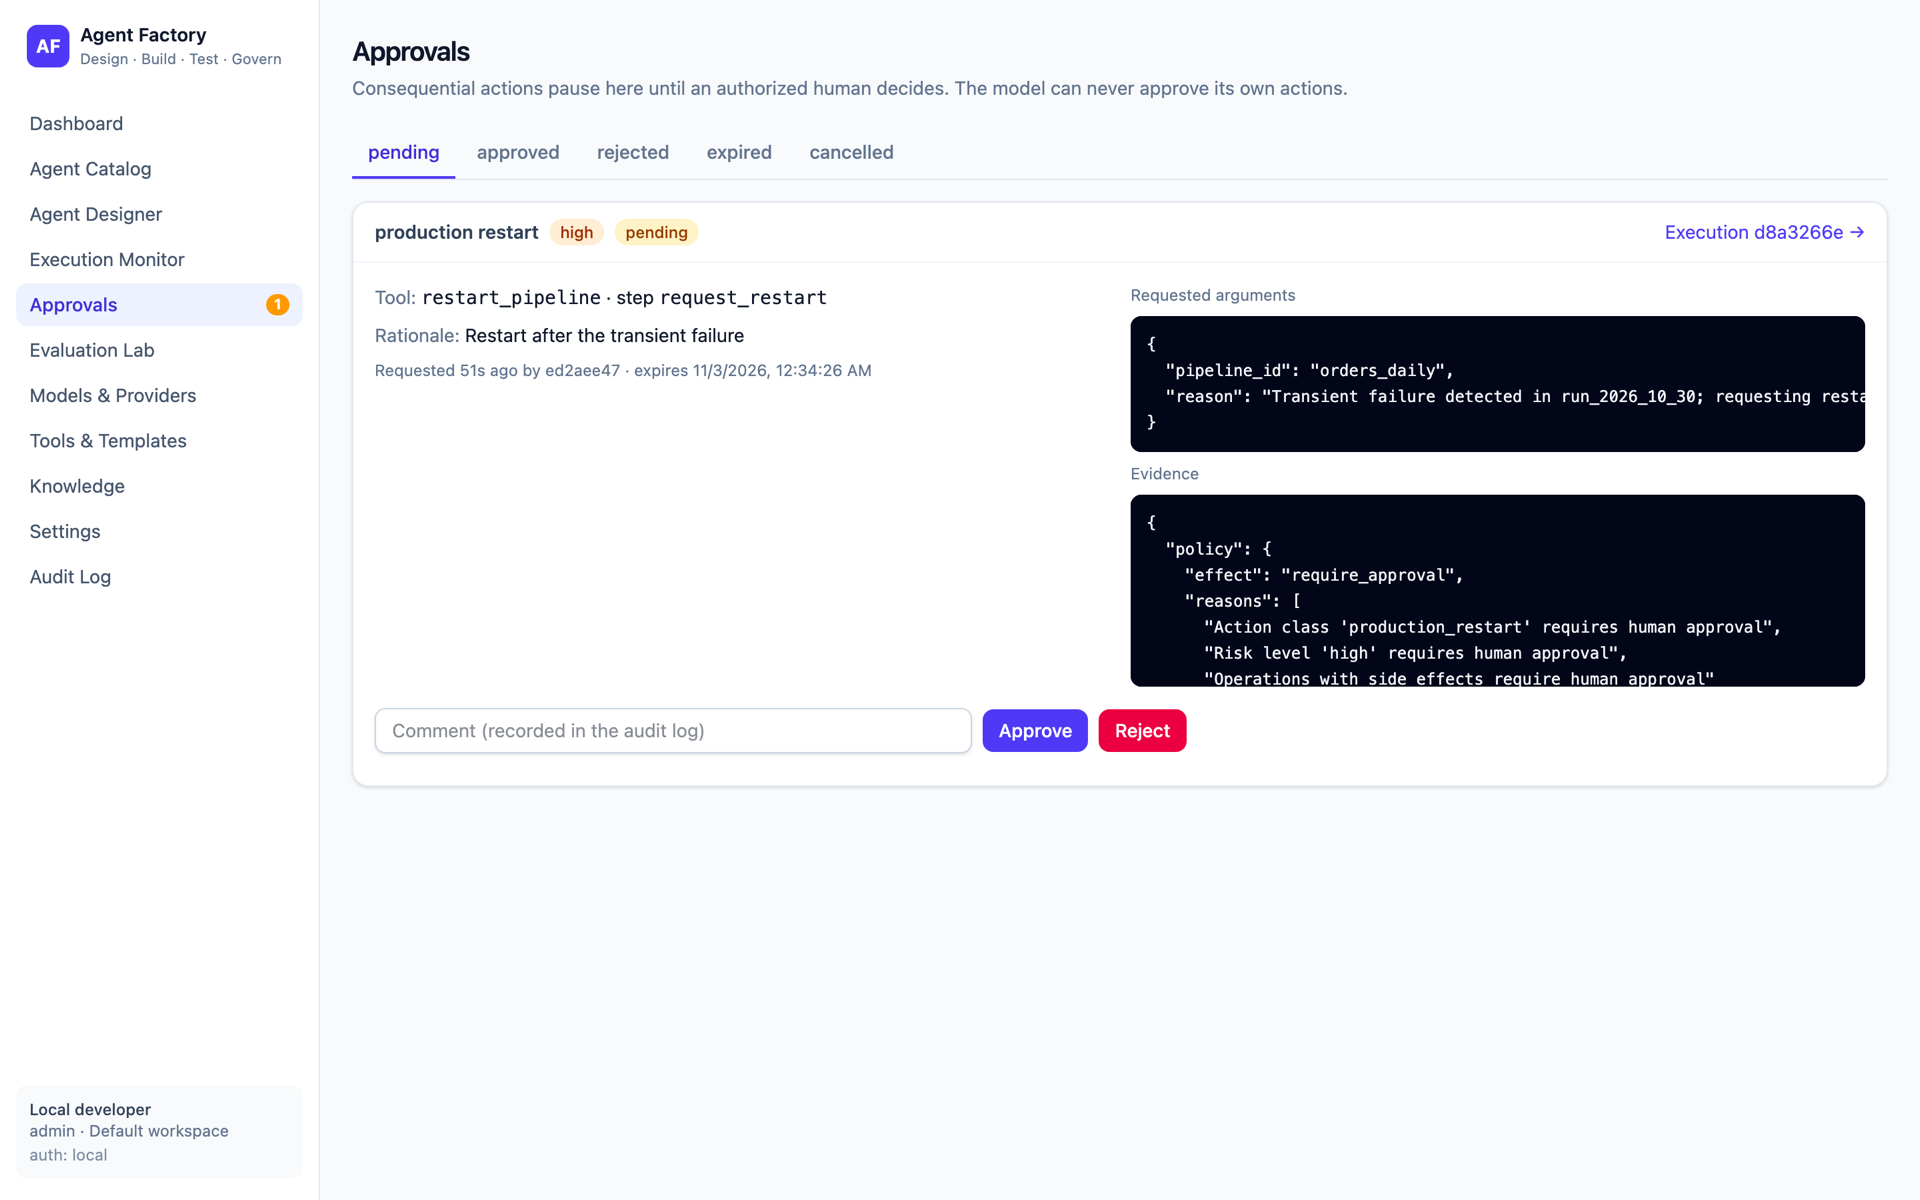
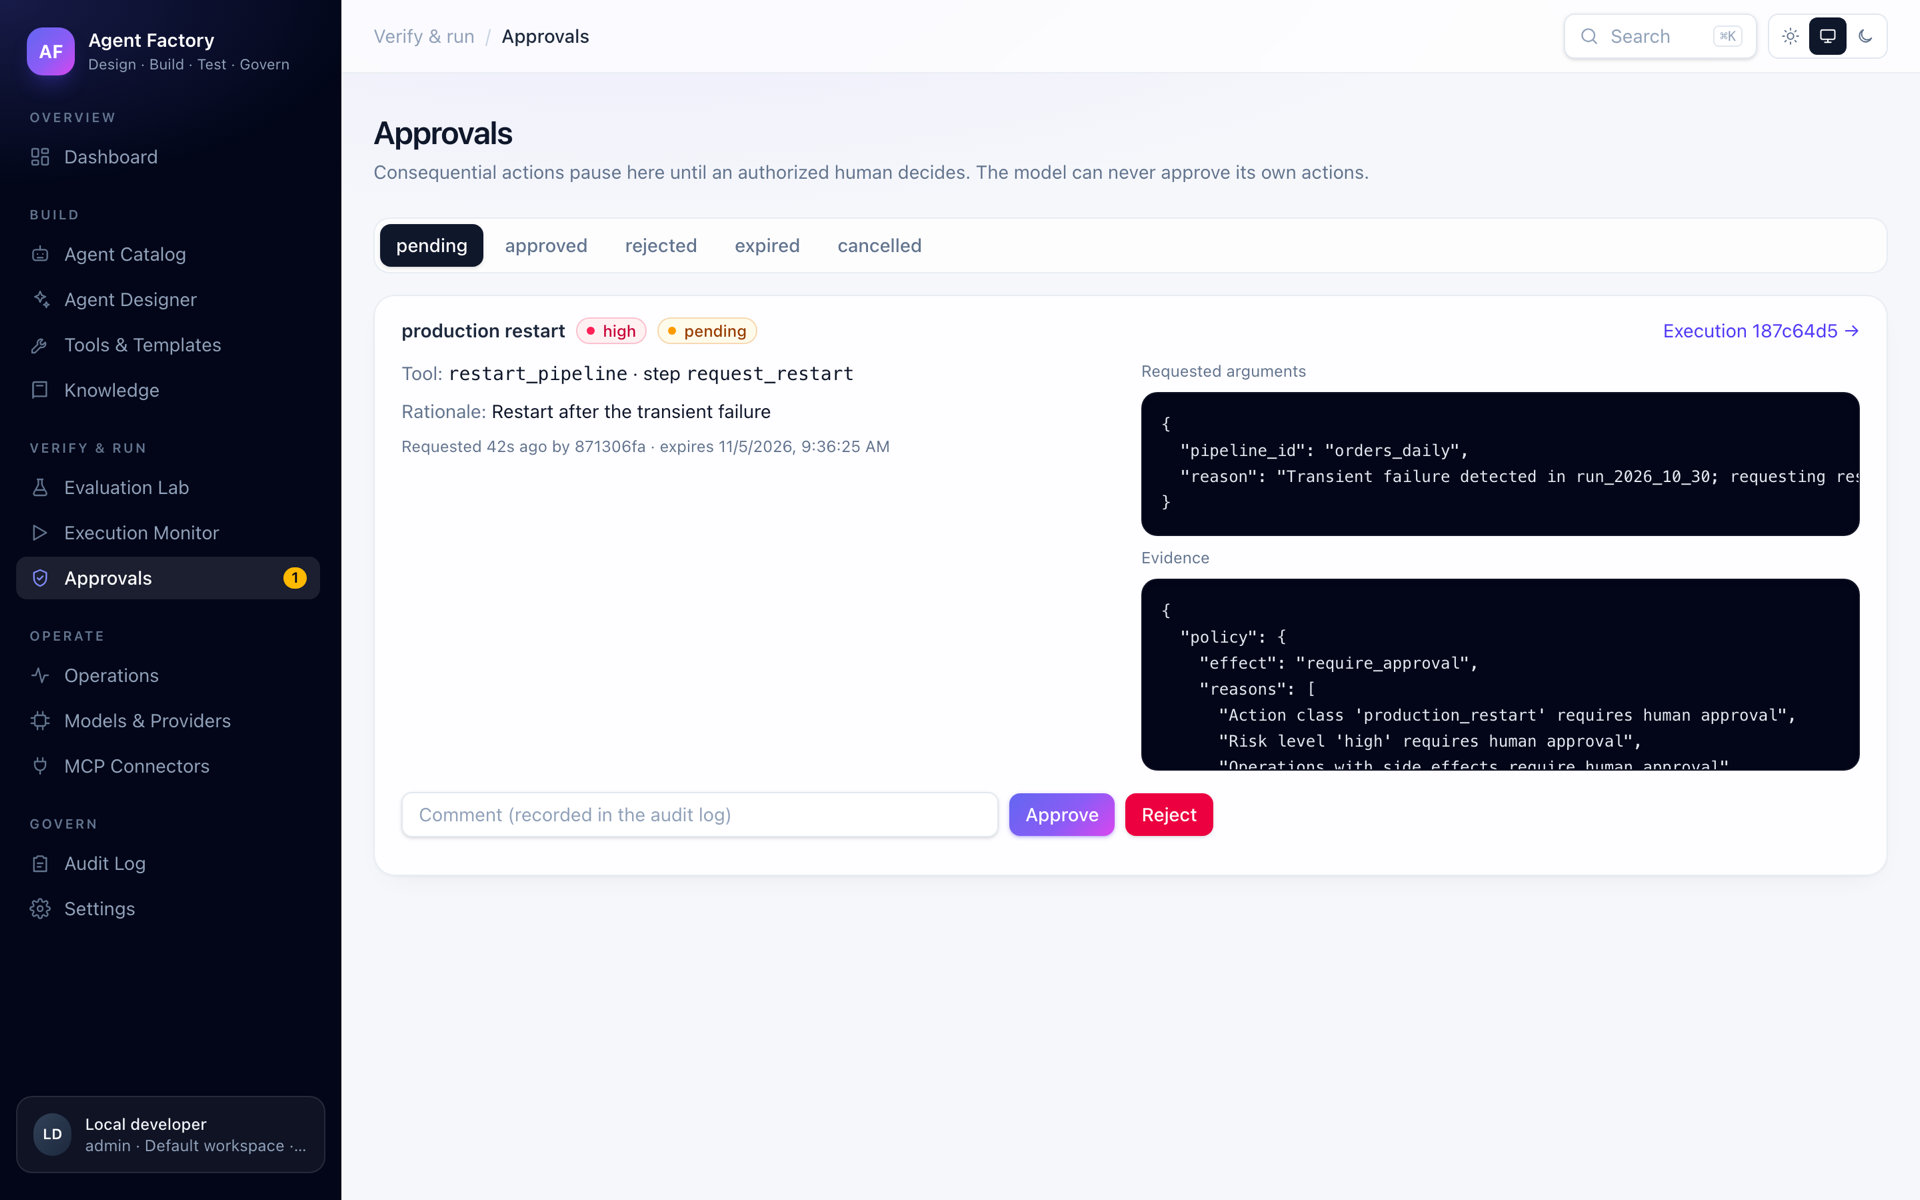
Refresh README screenshots for the redesigned UI
Dashboard, Operations (new), Releases, Execution monitor, Approvals,
Evaluation Lab and Agent Designer, captured from a demo instance with the
bundled example agents and the mock model.

diff --git a/README.md b/README.md
@@ -47,21 +47,22 @@ Most agent prototypes let a model decide what it may do. Agent Factory inverts t
 
 ## Screenshots
 
-The dashboard at `http://127.0.0.1:8787` after `agent-factory init`, using the example agents and the built-in mock model.
+A demo instance using the bundled example agents and the built-in mock model (activity spread over the last day
+for illustration).
 
-**Dashboard**: agents, recent executions, pending approvals, runtime and model health.
+**Dashboard**: lifecycle pipeline, 24-hour trends, execution activity, recent runs, runtime and model health.
 
 ![Dashboard](docs/images/screenshots/dashboard.png)
 
 <table>
   <tr>
     <td width="50%">
-      <b>Agent Designer</b>: guided 7-step editor with live validation and a workflow preview.<br/>
-      <a href="docs/images/screenshots/agent-designer.png"><img src="docs/images/screenshots/agent-designer.png" alt="Agent Designer"/></a>
+      <b>Operations</b>: success, latency, tokens and cost, execution activity, SLO alerts and per-agent health.<br/>
+      <a href="docs/images/screenshots/operations.png"><img src="docs/images/screenshots/operations.png" alt="Operations"/></a>
     </td>
     <td width="50%">
-      <b>Agent detail</b>: spec, tools, workflow, permissions, versions and evaluations for one agent.<br/>
-      <a href="docs/images/screenshots/agent-detail.png"><img src="docs/images/screenshots/agent-detail.png" alt="Agent detail"/></a>
+      <b>Releases</b>: what runs in each environment, a production canary at 20%, promotion, rollback and history.<br/>
+      <a href="docs/images/screenshots/agent-detail.png"><img src="docs/images/screenshots/agent-detail.png" alt="Agent releases"/></a>
     </td>
   </tr>
   <tr>
@@ -75,9 +76,13 @@ The dashboard at `http://127.0.0.1:8787` after `agent-factory init`, using the e
     </td>
   </tr>
   <tr>
-    <td colspan="2">
-      <b>Evaluation Lab</b>: per-case results, metrics and acceptance gates that decide whether a version can be published.<br/>
+    <td width="50%">
+      <b>Evaluation Lab</b>: per-case results, metrics and the release gates that decide whether a version can be published.<br/>
       <a href="docs/images/screenshots/evaluation-lab.png"><img src="docs/images/screenshots/evaluation-lab.png" alt="Evaluation Lab"/></a>
+    </td>
+    <td width="50%">
+      <b>Agent Designer</b>: guided 7-step editor with live validation and a workflow preview.<br/>
+      <a href="docs/images/screenshots/agent-designer.png"><img src="docs/images/screenshots/agent-designer.png" alt="Agent Designer"/></a>
     </td>
   </tr>
 </table>
